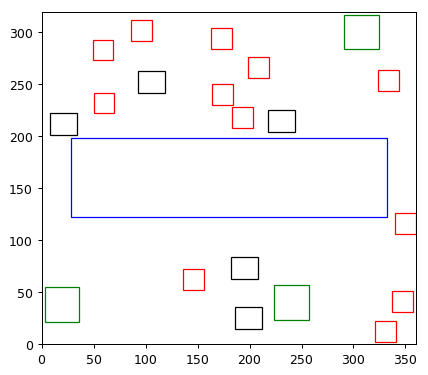
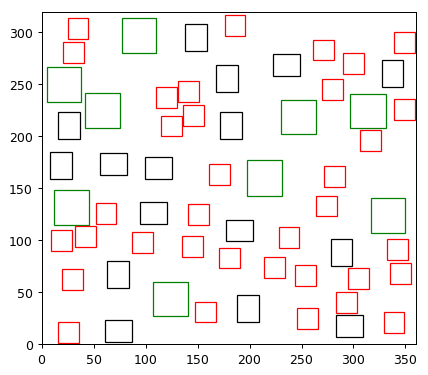
update

diff --git a/amstelhaegen_algoritme_zonderwater.py b/amstelhaegen_algoritme_zonderwater.py
@@ -11,28 +11,31 @@ import numpy as np
 import locale
 import timeit
 import math
+from os import path
 
 start = timeit.default_timer()
 
 ITERATIONS = 100000
-TOTAL_HOUSES = 60
+TOTAL_HOUSES = 20
 X_DIMENSION = 360
 Y_DIMENSION = 320
 best_iteration = 0
+
+outpath = ("output/{}".format(TOTAL_HOUSES))
 
 def pythagoras(x1, y1, x2, y2):
 	distance = np.sqrt((x2 - x1)**2 + (y2 - y1)**2)
 
 	return distance
 
-def drawBuilding(building, x, y, edgecolor):
+def drawBuilding(building, edgecolor):
 
 	# add building to map
 	ax1.add_patch(
 	    patches.Rectangle(
-	        (x, y),   			# (x,y)
-	        building.width,    # length
-	        building.length,     # width	# color
+	        (building.left_bottom[0], building.left_bottom[1]),   		# (x,y)
+	        building.width,    # width
+	        building.length,     # length	# color
 			linewidth = 1,
 			edgecolor = edgecolor,
 			facecolor = 'none'
@@ -48,7 +51,7 @@ def overlap(building1, building2):
 
 	return overlap
 
-def h_build(buildings, waters, h_counter):
+def h_build(buildings, h_counter):
 
 	xrandom = random.randint(0, X_DIMENSION - classes.House.width)
 	yrandom = random.randint(0, Y_DIMENSION - classes.House.length)
@@ -59,9 +62,6 @@ def h_build(buildings, waters, h_counter):
 		return buildings, h_counter
 
 	olap = True
-	if overlap(waters[0], house):
-		return buildings, h_counter
-
 	for building in buildings:
 		olap = overlap(house, building)
 
@@ -75,7 +75,7 @@ def h_build(buildings, waters, h_counter):
 
 	return buildings, h_counter
 
-def b_build(buildings, waters, b_counter):
+def b_build(buildings, b_counter):
 
 	xrandom = random.randint(0, X_DIMENSION - classes.Bungalow.width)
 	yrandom = random.randint(0, Y_DIMENSION - classes.Bungalow.length)
@@ -93,9 +93,6 @@ def b_build(buildings, waters, b_counter):
 		return buildings, b_counter
 
 	olap = True
-	if overlap(waters[0], bungalow):
-		return buildings, b_counter
-
 	for building in buildings:
 		olap = overlap(bungalow, building)
 
@@ -109,7 +106,7 @@ def b_build(buildings, waters, b_counter):
 
 	return buildings, b_counter
 
-def m_build(buildings, waters, m_counter):
+def m_build(buildings, m_counter):
 
 	xrandom = random.randint(0, X_DIMENSION - classes.Maison.width)
 	yrandom = random.randint(0, Y_DIMENSION - classes.Maison.length)
@@ -128,9 +125,6 @@ def m_build(buildings, waters, m_counter):
 		return buildings, m_counter
 
 	olap = True
-	if overlap(waters[0], maison):
-		return buildings, m_counter
-
 	for building in buildings:
 		olap = overlap(maison, building)
 
@@ -143,26 +137,6 @@ def m_build(buildings, waters, m_counter):
 		m_counter += 1
 
 	return buildings, m_counter
-
-# def w_build(buildings, waters):
-# 	# choice = random.getrandbits(1)
-# 	# if choice:
-# 	# 	w_length = random.randint(1, 90)
-# 	# 	w_width = random.randint(1, 4) * w_length
-# 	# 	print "true"
-#     #
-# 	# else:
-# 	# 	print "false"
-# 	# 	w_width = random.randint(1, 80)
-# 	# 	w_length = random.randint(1, 4) * w_width
-#
-#
-# 	xrandom = random.randint(0, X_DIMENSION - w_width)
-# 	yrandom = random.randint(0, Y_DIMENSION - w_length)
-#
-# 	water = classes.Water(xrandom, yrandom, w_length, w_width)
-#
-# 	return waters
 
 
 def closest_distance(current_building, buildings):
@@ -271,16 +245,17 @@ def closest_distance(current_building, buildings):
 
 if __name__ == "__main__":
 
+	fig1 = plt.figure()
+	ax1 = fig1.add_subplot(111, aspect='equal')
+	ax1.set_xlim(0, 360)
+	ax1.set_ylim(0, 320)
+
 	for i in range(ITERATIONS):
 
 		# fill building array with a house at a random point
 		buildings = []
-		waters = []
 
-		waters.append(classes.Water(28.2, 122.05, 75.89, 303.58))
-
-		# append first house to array 'buildings'
-		buildings.append(classes.House(X_DIMENSION, Y_DIMENSION))
+		# amstel_map = Classes
 
 		# set number of each building type
 		h_number = 0.6 * TOTAL_HOUSES
@@ -291,23 +266,19 @@ if __name__ == "__main__":
 		h_counter, b_counter, m_counter = 0, 0, 0
 
 		# build houses until maximum is reached
-		while (len(buildings) - 1) < TOTAL_HOUSES:
+		while len(buildings) < TOTAL_HOUSES:
 
 	        # choose random building type
 			building_type = random.choice(['house', 'bungalow', 'maison'])
 
 			if building_type == 'house' and h_counter < h_number:
-				buildings, h_counter = h_build(buildings, waters, h_counter)
+				buildings, h_counter = h_build(buildings, h_counter)
 
 			if building_type == 'bungalow' and b_counter < b_number:
-				buildings, b_counter = b_build(buildings, waters, b_counter)
+				buildings, b_counter = b_build(buildings, b_counter)
 
 			if building_type == 'maison' and m_counter < m_number:
-				buildings, m_counter = m_build(buildings, waters, m_counter)
-
-
-	    # delete first house from array
-		buildings.pop(0)
+				buildings, m_counter = m_build(buildings, m_counter)
 
 	    # calculate closest distance to buildings
 		counter = 0
@@ -322,29 +293,17 @@ if __name__ == "__main__":
 			best_iteration = total_value
 			print best_iteration
 
-			fig1 = plt.figure()
-			ax1 = fig1.add_subplot(111, aspect='equal')
-			ax1.set_xlim(0, 360)
-			ax1.set_ylim(0, 320)
-
 			for building in buildings:
 				if building.name == 'house':
-					drawBuilding(building, building.left_bottom[0], building.left_bottom[1], 'red')
+					drawBuilding(building, 'red')
 				if building.name == 'bungalow':
-					drawBuilding(building, building.left_bottom[0], building.left_bottom[1], 'black')
+					drawBuilding(building, 'black')
 				if building.name == 'maison':
-					drawBuilding(building, building.left_bottom[0], building.left_bottom[1], 'green')
+					drawBuilding(building, 'green')
 
-			drawBuilding(waters[0], waters[0].left_bottom[0], waters[0].left_bottom[1], 'blue')
-
-			# for water in waters:
-			# 	drawBuilding(water, water.left_bottom[0], water.left_bottom[1], 'blue')
-
-			# safe figure
-			fig1.savefig('best_random.png', dpi=90, bbox_inches='tight')
-
-		print total_value
-		print best_iteration
+			# save figure
+			# if i > 100:
+			fig1.savefig(path.join(outpath,"20_houses_{0}.png".format(i)))
 
 	stop = timeit.default_timer()
 	print "De tijd is: ", stop - start
